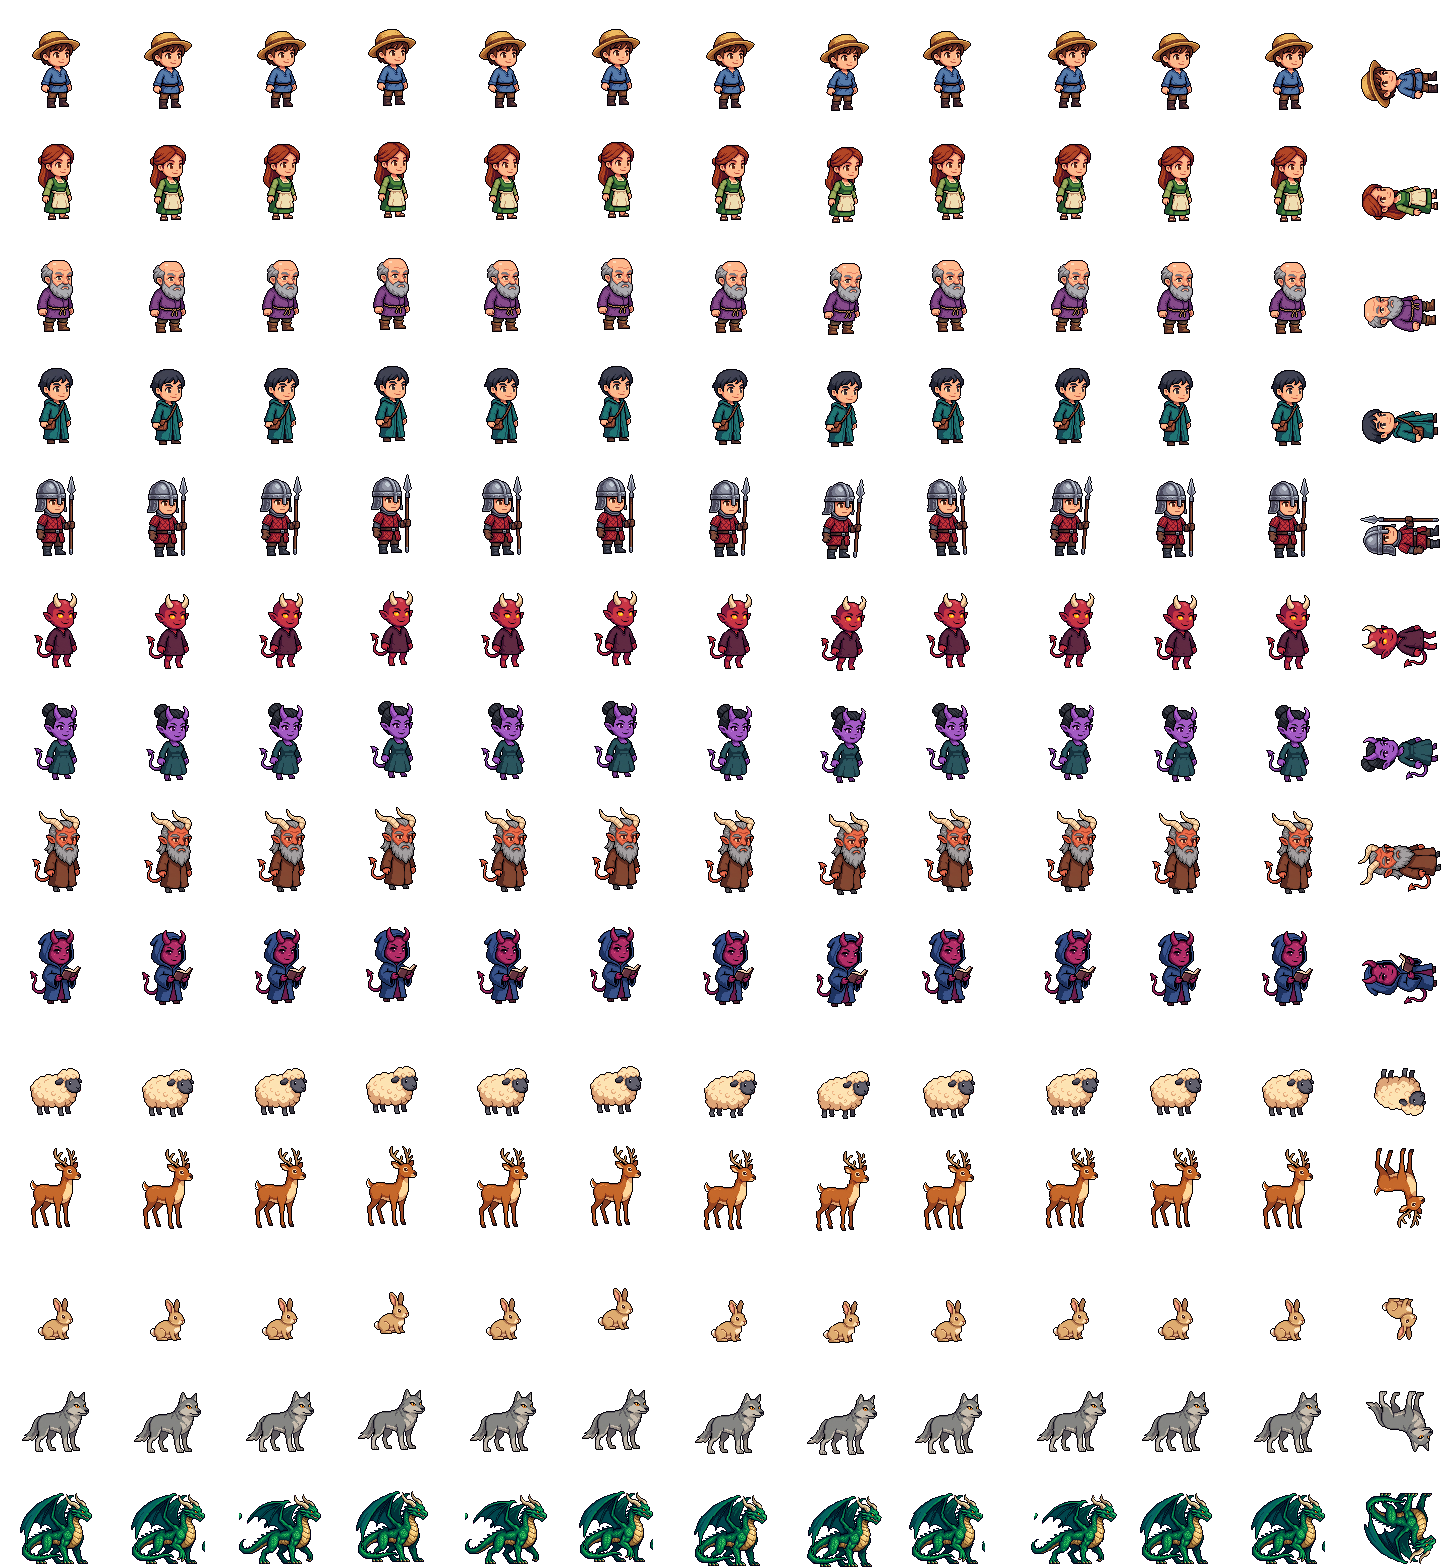
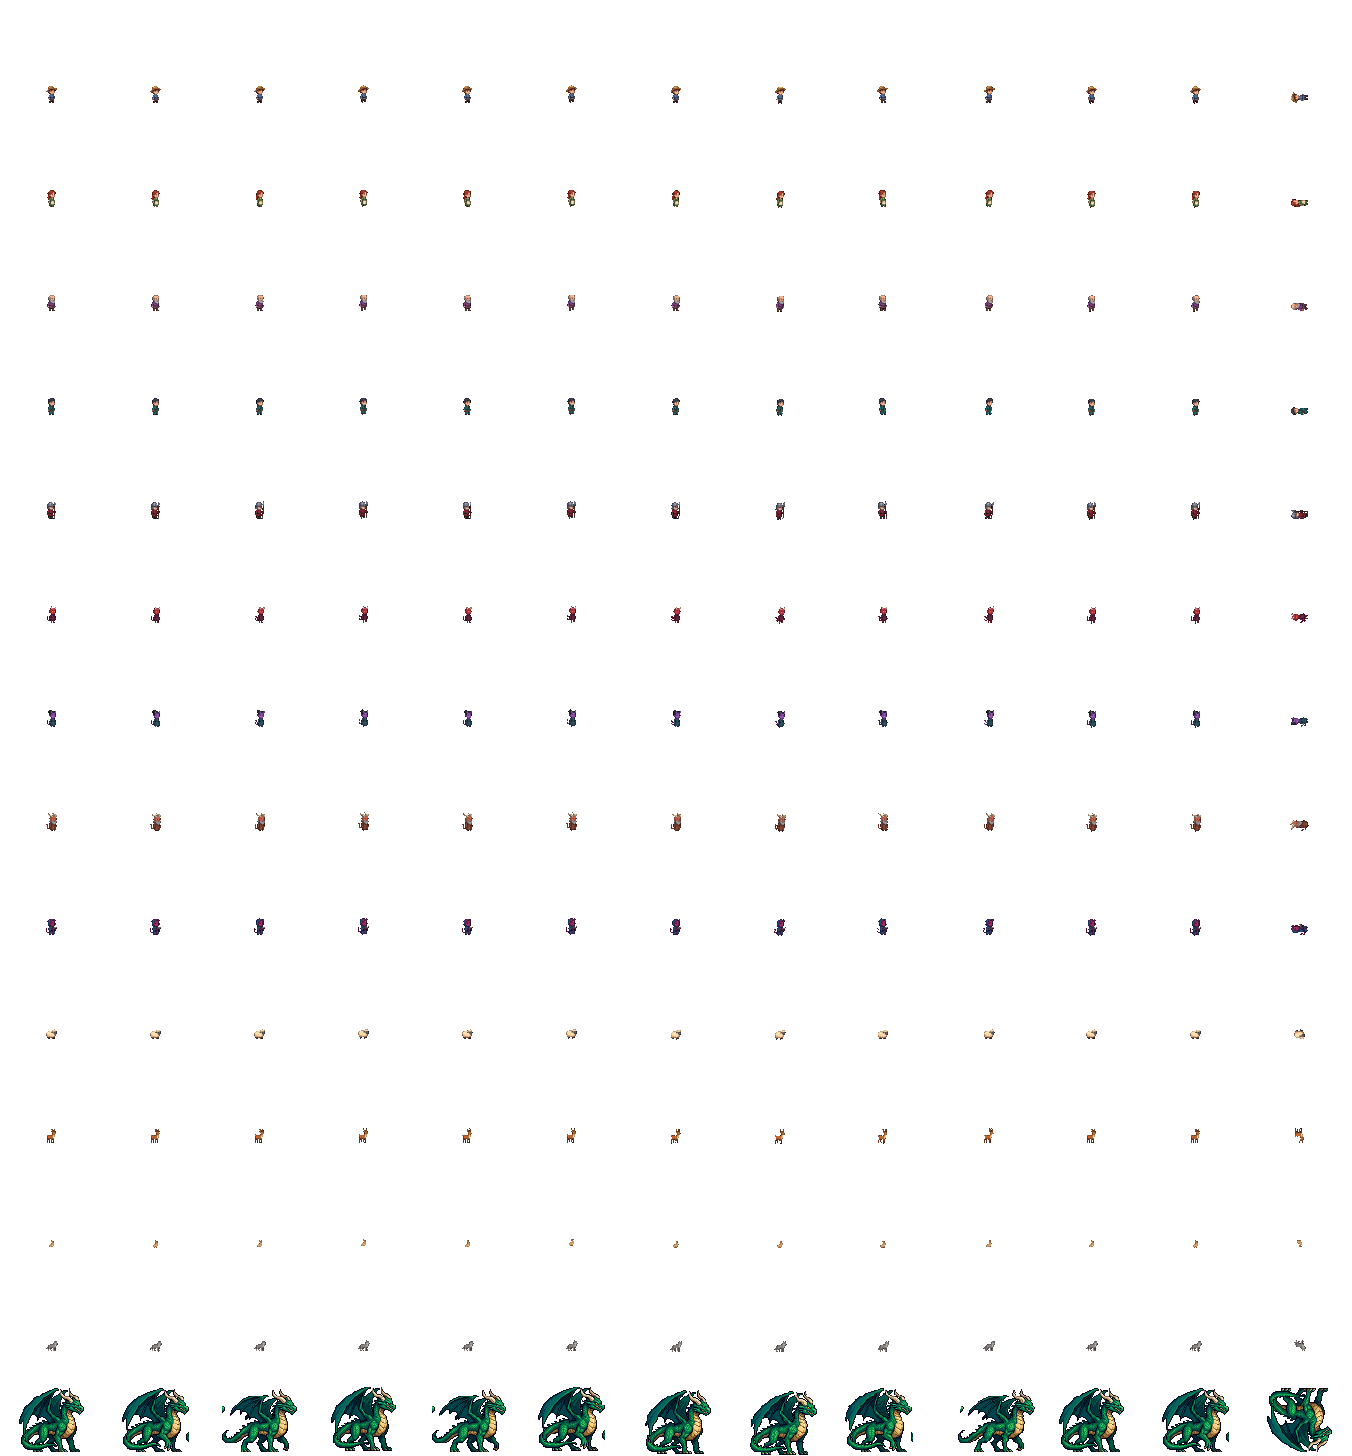
fix(art): real proportions — people ~1 cell, store 2x a person, dragon ~4x; sheet at world pixels, drawn 1:1

diff --git a/tools/art/import_owner_art.py b/tools/art/import_owner_art.py
@@ -19,7 +19,13 @@ from PIL import Image
 ROOT = Path(__file__).resolve().parents[2]
 SRC = ROOT / 'Assets/Source/owner-art-2026-11-25'
 OUT = ROOT / 'Game/Assets/Art/owner_sheet.png'
-FRAME = 112
+FRAME = 112          # working frame in native art pixels (poses are built here)
+OUT_FRAME = 104      # output frame in world pixels (16 world px = one map cell)
+# World height of each kind, so sizes read as real proportions next to the 32 px town store (two cells):
+# a person about one cell, the store about twice a person, a dragon about four people tall.
+WORLD_SCALE = {  # world px per native art px, chosen from native heights (people ~77, deer 80, sheep 48, rabbit 42, wolf 61, dragon 71)
+    'person': 17 / 77, 'sheep': 10 / 48, 'deer': 15 / 80, 'rabbit': 7 / 42, 'wolf': 11 / 61, 'dragon': 64 / 71,
+}
 COLS = ['idle0', 'idle1', 'walk0', 'walk1', 'walk2', 'walk3', 'work0', 'work1', 'atk0', 'atk1', 'read0', 'read1', 'dead']
 
 
@@ -169,6 +175,18 @@ def dragon_frames(a, b, c):
             'dead': lying(a, True)}
 
 
+def to_world(frame, scale):
+    """Shrinks a native frame to world pixels (box filter), hard alpha edge, bottom-centred in an OUT_FRAME cell."""
+    size = max(1, round(FRAME * scale))
+    small = frame.resize((size, size), Image.BOX)
+    px = np.asarray(small).copy()
+    px[..., 3] = np.where(px[..., 3] >= 110, 255, 0)
+    small = Image.fromarray(px, 'RGBA')
+    cell = Image.new('RGBA', (OUT_FRAME, OUT_FRAME))
+    cell.alpha_composite(small, ((OUT_FRAME - size) // 2, OUT_FRAME - size))
+    return cell
+
+
 def main():
     humans = sprites('humans', 5)      # farmer, woman, elder, scholar, guard
     demons = sprites('demons', 4)      # villager, woman, elder, mage
@@ -182,13 +200,14 @@ def main():
             ('sheep', animal_frames(animals[0])), ('deer', animal_frames(animals[1])),
             ('rabbit', animal_frames(animals[2], hop=True)), ('wolf', animal_frames(animals[3])),
             ('dragon', dragon_frames(*dragons))]
-    sheet = Image.new('RGBA', (FRAME * len(COLS), FRAME * len(rows)))
-    for r, (_, frames) in enumerate(rows):
+    sheet = Image.new('RGBA', (OUT_FRAME * len(COLS), OUT_FRAME * len(rows)))
+    for r, (name, frames) in enumerate(rows):
+        kind = 'person' if name.startswith(('human', 'demon')) else name
         for c, col in enumerate(COLS):
-            sheet.alpha_composite(frames[col], (c * FRAME, r * FRAME))
+            sheet.alpha_composite(to_world(frames[col], WORLD_SCALE[kind]), (c * OUT_FRAME, r * OUT_FRAME))
     sheet.save(OUT)
     print('rows:', ', '.join(f'{i}={n}' for i, (n, _) in enumerate(rows)))
-    print('native heights (art px):', {n: f[ 'idle0'].getbbox()[3] - f['idle0'].getbbox()[1] for n, f in rows})
+    print('world heights (px):', {n: round((f['idle0'].getbbox()[3] - f['idle0'].getbbox()[1]) * WORLD_SCALE['person' if n.startswith(('human', 'demon')) else n]) for n, f in rows})
     if len(sys.argv) > 1:
         bg = Image.new('RGBA', sheet.size, (150, 173, 99, 255))
         bg.alpha_composite(sheet)

diff --git a/Game/Presentation/MapRenderer.cs b/Game/Presentation/MapRenderer.cs
@@ -197,12 +197,10 @@ public partial class MapRenderer : Node2D
 
     // ---- Character animation (presentation only: reads rows, never changes the simulation) ----
     // Sheet Assets/Art/characters_24.png (tools/art/make_characters.py): 24 px frames, columns below, rows per species/variant.
-    // Sheet frames are 112×112 art pixels, bottom-centred. People are ~76 art px tall and are drawn two cells tall, so one
-    // art pixel is ArtScale world pixels; RowScale makes rabbits smaller and the dragon twice a person's size.
-    [Export] public float ArtScale = 32f / 76f;
-    private const int Frame = 112, ColIdle = 0, ColWalk = 2, ColWork = 6, ColAttack = 8, ColRead = 10, ColDead = 12;
+    // Sheet frames are 104×104 world pixels, bottom-centred, already at real proportions (tools/art/import_owner_art.py):
+    // a person about one cell, the town store about two people, a dragon about four people tall. Drawn 1:1, nearest.
+    private const int Frame = 104, ColIdle = 0, ColWalk = 2, ColWork = 6, ColAttack = 8, ColRead = 10, ColDead = 12;
     private const int HumanRows = 4, GuardRow = 4, DemonRow0 = 5, DemonRows = 4, SheepRow = 9, DeerRow = 10, RabbitRow = 11, WolfRow = 12, DragonRow = 13;
-    private static float RowScale(int row) => row switch { RabbitRow => 0.65f, DragonRow => 2f, _ => 1f };
 
     // Guards wear the guard sprite. Job is not on the snapshot row, so it is read from details at most every 20 ticks per person.
     private readonly Dictionary<long, (long Tick, bool Guard)> guardCache = [];
@@ -332,6 +330,6 @@ public partial class MapRenderer : Node2D
         motion.TryGetValue(row.Id.Value, out var m);
         bool moving = !dead && m is not null && m.Pos.DistanceSquaredTo(m.Target) > 0.0004f;
         int col = SheetColumn(row, moving, sheetRow >= SheepRow);
-        return (characters, new Rect2(col * Frame, sheetRow * Frame, Frame, Frame), m is { Left: true }, ArtScale * RowScale(sheetRow));
+        return (characters, new Rect2(col * Frame, sheetRow * Frame, Frame, Frame), m is { Left: true }, 1f);
     }
 }

diff --git a/Game/Tests/EffectsAcceptance.cs b/Game/Tests/EffectsAcceptance.cs
@@ -76,7 +76,7 @@ public partial class EffectsAcceptance : Node
                     && row.LifeState == LifeStates.Alive)
                 {
                     var sprite = renderer.SpriteOf(row);
-                    Check(sprite is { } sp && sp.Sheet.ResourcePath.EndsWith("owner_sheet.png") && sp.Region.Position.Y == 13 * 112 && sp.Scale > 0.6f, "the dragon is drawn from its row of the owner sheet, at dragon size");
+                    Check(sprite is { } sp && sp.Sheet.ResourcePath.EndsWith("owner_sheet.png") && sp.Region.Position.Y == 13 * 104 && sp.Scale == 1f, "the dragon is drawn 1:1 from its row of the owner sheet");
                     if (lastX != int.MinValue && row.X != lastX)
                     {
                         Check(sprite!.Value.Mirrored == row.X < lastX, $"the dragon faces the way it stepped ({lastX} -> {row.X})");

diff --git a/docs/handoffs/owner-art.md b/docs/handoffs/owner-art.md
@@ -17,7 +17,7 @@
   - turns magenta-tinted border pixels into outline ink, leaving purple or pink skin alone
   - cuts the sprites apart (the touching dragons are split at their thinnest column)
 - **Poses:** people have one front-facing pose, animals one side pose, the dragon three. The 13 animation columns are made from these by bobbing, leaning and lunging, plus a lying-down pose for death; the dragon cycles its three poses when walking. There is no real leg animation because none was drawn.
-- **Sizes:** one art pixel is drawn at 32/76 world px, so people are two cells tall. Rabbits are drawn at 0.65× and the dragon at 2× (about 4 cells).
+- **Sizes (rescaled 2026-11-25 at the owner's request, people were as big as the store):** the importer shrinks every frame to world pixels at real proportions: people 16–18 px (about one cell), deer 15, wolf 11, sheep 10, rabbit 7, dragon 64 (about four people). The 104 px frames are drawn 1:1 with nearest filtering, so pixels stay sharp.
 - **Variants and guards:** each human uses one of 4 looks (farmer, woman, elder, scholar), and guards use the guard sprite; the job is read from details at most every 20 ticks. Demons use one of 4 looks. Nearest filtering is used; at the start zoom an art pixel is about 1.26 screen px.
 - The old generated sheets (`characters_24.png`, `dragon_48.png`) stay as fallbacks but are not drawn.
 
